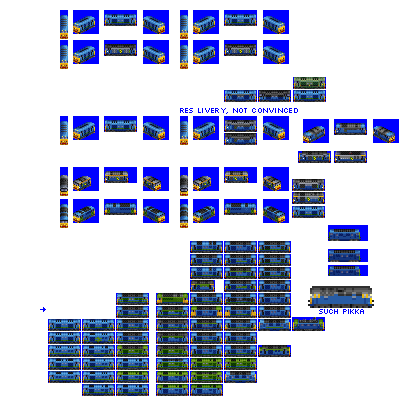
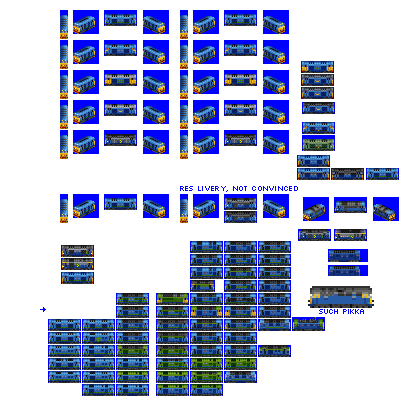
Change: WIP on liveries

Changed region(s): [[0.45, 0.09, 1.0, 0.6], [0.15, 0.09, 0.42, 0.57], [0.15, 0.6, 0.24, 0.72]]

diff --git a/src/vehicles/onslaught.py b/src/vehicles/onslaught.py
@@ -18,7 +18,7 @@ def main(roster_id):
         intro_year_offset=-8,  # let's be really early with this one to give a mail engine matching Blaze HST intro year
         fixed_run_cost_points=300,  # give a small malus to this one (balancing eh?)
         force_default_pax_mail_livery=2,  # pax/mail cars default to second livery with this engine
-        additional_liveries=["RAILFREIGHT_TRIPLE_GREY"],
+        additional_liveries=["BANGER_BLUE", "LARGE_LOGO", "FANCY_BLUE", "RAILFREIGHT_TRIPLE_GREY"],
         sprites_complete=False,
     )
 

diff --git a/src/rosters/pony.py b/src/rosters/pony.py
@@ -399,6 +399,13 @@ def main():
                     ("COLOUR_DARK_GREEN", "COLOUR_WHITE"),
                 ],
             },
+            "FANCY_BLUE": {
+                "remap_to_cc": None,
+                "docs_image_input_cc": [
+                    ("COLOUR_DARK_BLUE", "COLOUR_WHITE"),
+                    ("COLOUR_RED", "COLOUR_WHITE"),
+                ],
+            },
             "RES": {
                 "remap_to_cc": None,
                 "docs_image_input_cc": [

diff --git a/src/vehicles/dragon.py b/src/vehicles/dragon.py
@@ -16,6 +16,7 @@ def main(roster_id):
         gen=4,
         intro_year_offset=1,  # introduce later than gen epoch by design
         fixed_run_cost_points=240,  # give a serious malus to this one (balancing eh?)
+        additional_liveries=["BANGER_BLUE"],
         default_livery_extra_docs_examples=[
             ("COLOUR_BLUE", "COLOUR_WHITE"),
             ("COLOUR_PINK", "COLOUR_WHITE"),
